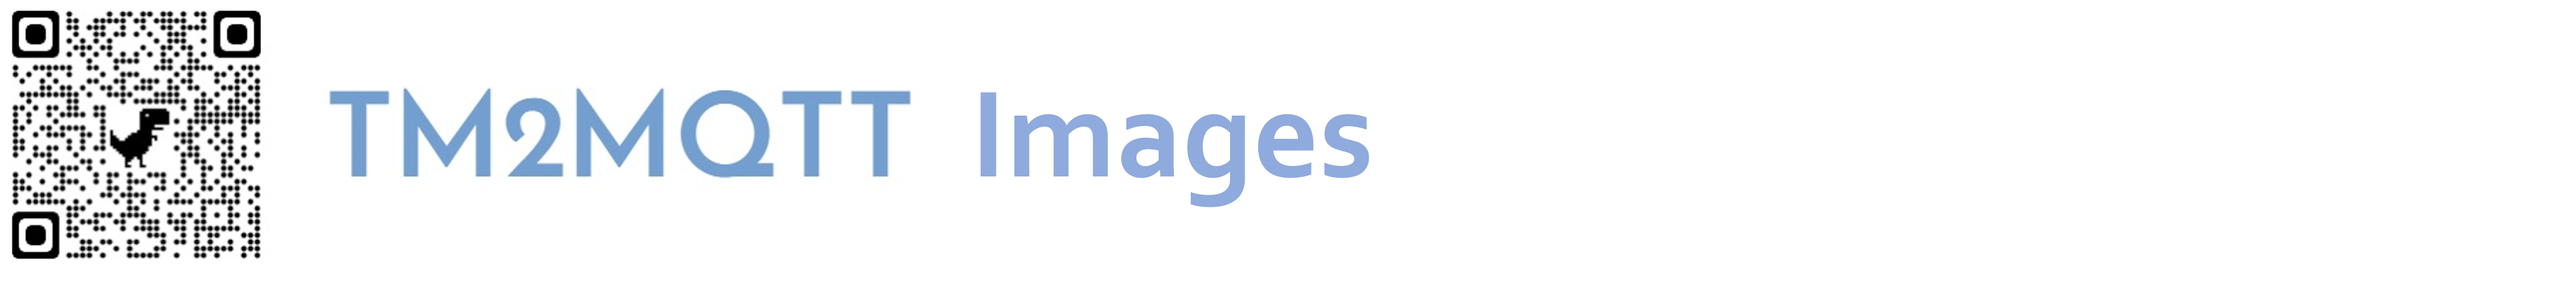
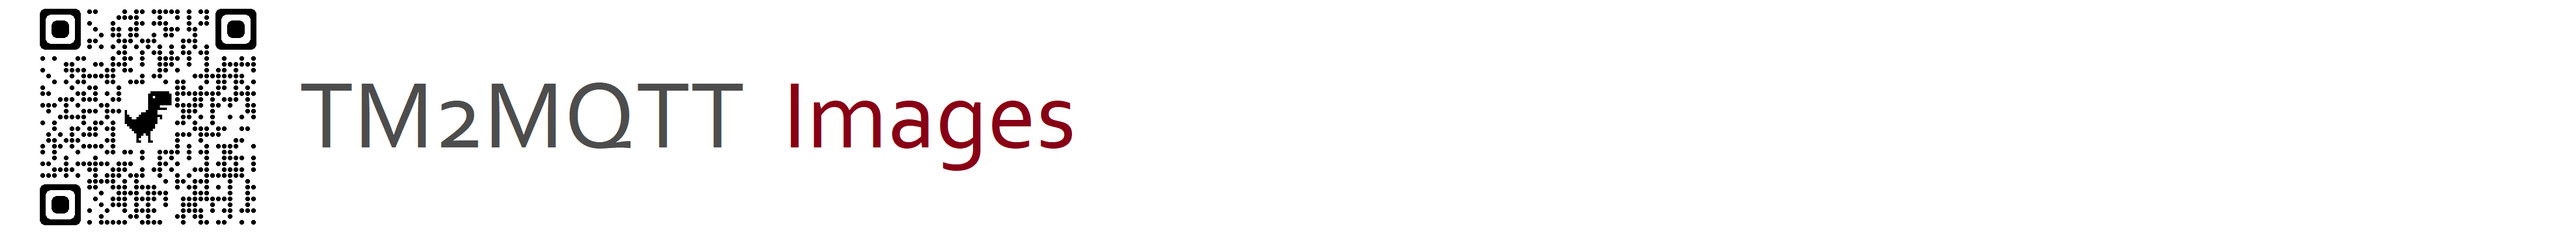
Add files via upload

Changed region(s): [[0.0, 0.03, 0.5293, 0.96]]

diff --git a/index.html b/index.html
@@ -2,21 +2,20 @@
 <html>
   <head>
     <meta charset="UTF-8">
-
   </head>
   <body>
     <table>
         <thead>
-            <tr>
-                <th><img src="tm2mqttdata/title1.jpg"></th>
-            </tr>
+            <th>
+                <tr><img src="tm2mqttdata/title1.png" height="180px"></tr>
+            </th>
         </thead>
         <tbody>
-            <tr>
-                <td><a href="tm2mqttdata/Index-image.html"><img src="tm2mqttdata/image.png" width="400px" height="450px"></a></td>
-                <td><a href="tm2mqttdata/Index-pose.html"><img src="tm2mqttdata/pose.png" width="400px" height="450px"></a></td>
-                <td><a href="tm2mqttdata/Index-lobe.html"><img src="tm2mqttdata/lobe.png" width="400px" height="450px"></a></td>
-            </tr>
+            <th>
+                <a href="tm2mqttdata/Index-image.html"><img src="tm2mqttdata/image.png" width="320px" height="360px"></a>
+                <a href="tm2mqttdata/Index-pose.html"><img src="tm2mqttdata/pose.png" width="320px" height="360px"></a>
+                <a href="tm2mqttdata/Index-lobe.html"><img src="tm2mqttdata/lobe.png" width="320px" height="360px"></a>
+            </th>
         </tbody>
     </table>
   </body>

diff --git a/tm2mqttdata/Index-lobe.html b/tm2mqttdata/Index-lobe.html
@@ -9,7 +9,7 @@
 
   </head>
   <body>
-  	<header><img src="title2.png" width="100%"></header>
+  	<header><img src="title4.png" width="100%"></header>
     <nav>
       <div id="mname" style="text-align:left;"><h3>Teachable Machine:</h3></div>
       <table>
